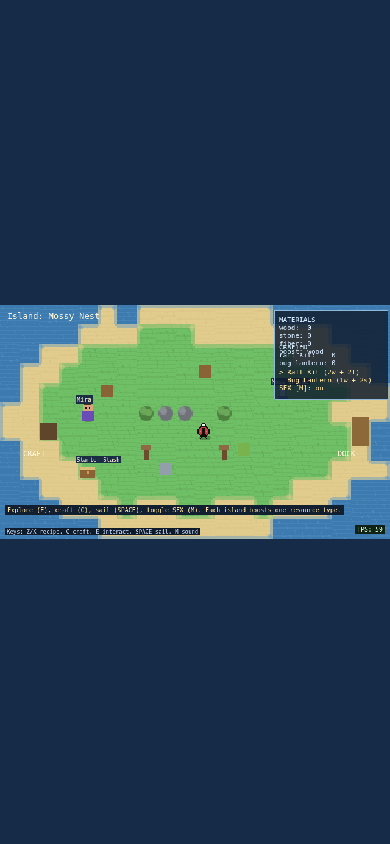
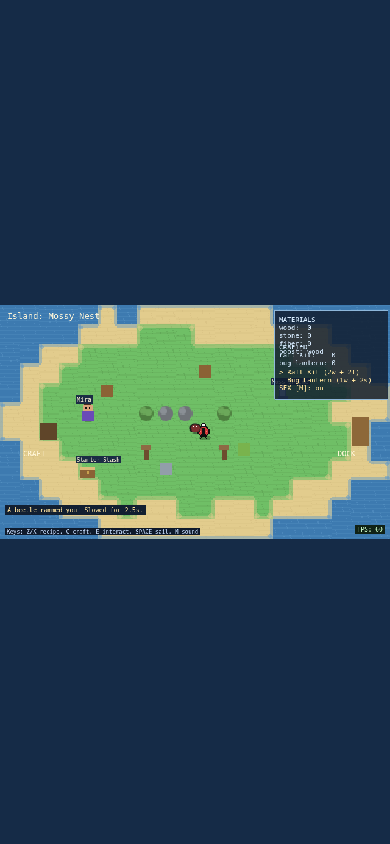
Add roaming beetle hazards and slowdown risk loop

diff --git a/src/main.ts b/src/main.ts
@@ -5,6 +5,7 @@ type ResourceType = 'wood' | 'stone' | 'fiber'
 type CraftKey = 'raftKit' | 'bugLantern'
 type ObstacleType = 'rock' | 'bush' | 'stump'
 type LandmarkType = 'chest' | 'shrine' | 'cave'
+type EncounterType = 'beetle'
 
 type ResourceNode = {
   type: ResourceType
@@ -27,6 +28,13 @@ type LandmarkDef = {
   title: string
 }
 
+type EncounterDef = {
+  type: EncounterType
+  tx: number
+  ty: number
+  radius: number
+}
+
 type Island = {
   name: string
   palette: {
@@ -40,6 +48,7 @@ type Island = {
   resources: Array<{ type: ResourceType; tx: number; ty: number }>
   obstacles: ObstacleDef[]
   landmarks: LandmarkDef[]
+  encounters: EncounterDef[]
 }
 
 type Recipe = {
@@ -109,6 +118,9 @@ class AdventureScene extends Phaser.Scene {
   private npcLabel?: Phaser.GameObjects.Text
   private obstacleSprites: Phaser.Physics.Arcade.Sprite[] = []
   private landmarks: Array<{ def: LandmarkDef; key: string; sprite: Phaser.Physics.Arcade.Sprite; label: Phaser.GameObjects.Text }> = []
+  private encounters: Array<{ def: EncounterDef; sprite: Phaser.Physics.Arcade.Sprite }> = []
+  private slowUntil = 0
+  private encounterCooldownUntil = 0
 
   private hudPanel!: Phaser.GameObjects.Rectangle
   private islandLabel!: Phaser.GameObjects.Text
@@ -196,6 +208,9 @@ class AdventureScene extends Phaser.Scene {
         { id: 'stash', type: 'chest', tx: 4, ty: 8, title: 'Starter Stash' },
         { id: 'altar', type: 'shrine', tx: 14, ty: 4, title: 'Moss Shrine' },
       ],
+      encounters: [
+        { type: 'beetle', tx: 9, ty: 6, radius: 22 },
+      ],
     },
     {
       name: 'Pebble Ring',
@@ -225,6 +240,9 @@ class AdventureScene extends Phaser.Scene {
         { id: 'echo-cave', type: 'cave', tx: 5, ty: 6, title: 'Echo Cave' },
         { id: 'ring-shrine', type: 'shrine', tx: 15, ty: 7, title: 'Ring Shrine' },
       ],
+      encounters: [
+        { type: 'beetle', tx: 10, ty: 6, radius: 26 },
+      ],
     },
     {
       name: 'Sunset Atoll',
@@ -253,6 +271,9 @@ class AdventureScene extends Phaser.Scene {
       landmarks: [
         { id: 'sun-cache', type: 'chest', tx: 15, ty: 4, title: 'Sun Cache' },
         { id: 'reef-cave', type: 'cave', tx: 5, ty: 8, title: 'Reef Cave' },
+      ],
+      encounters: [
+        { type: 'beetle', tx: 10, ty: 5, radius: 30 },
       ],
     },
   ]
@@ -305,6 +326,7 @@ class AdventureScene extends Phaser.Scene {
   update() {
     this.movePlayer()
     this.tickResourceRespawns()
+    this.tickEncounters()
 
     this.fpsTick++
     if (this.fpsTick % 12 === 0) {
@@ -472,6 +494,16 @@ class AdventureScene extends Phaser.Scene {
     g.fillStyle(0x5b6f85)
     g.fillRect(2, 11, 12, 3)
     g.generateTexture('landmark-cave', 16, 16)
+
+    g.clear()
+    g.fillStyle(0x1b1b1b)
+    g.fillEllipse(8, 9, 11, 9)
+    g.fillStyle(0x7b2f2f)
+    g.fillEllipse(8, 9, 8, 7)
+    g.fillStyle(0xffffff)
+    g.fillRect(6, 7, 1, 1)
+    g.fillRect(9, 7, 1, 1)
+    g.generateTexture('encounter-beetle', 16, 16)
 
     const drawLadybug = (key: string, lines: string[]) => {
       const colors: Record<string, number> = {
@@ -980,6 +1012,31 @@ class AdventureScene extends Phaser.Scene {
     })
   }
 
+  private tickEncounters() {
+    const now = this.time.now
+
+    this.encounters.forEach(({ sprite }) => {
+      const danger = Phaser.Math.Distance.Between(this.player.x, this.player.y, sprite.x, sprite.y)
+      if (danger >= 20 || now < this.encounterCooldownUntil) return
+
+      this.encounterCooldownUntil = now + 1800
+      this.slowUntil = now + 2600
+
+      const lootable = (Object.keys(this.inventory) as ResourceType[]).filter((k) => this.inventory[k] > 0)
+      if (lootable.length > 0) {
+        const stolen = Phaser.Utils.Array.GetRandom(lootable)
+        this.inventory[stolen] = Math.max(0, this.inventory[stolen] - 1)
+        this.setStatus(`A beetle rammed you! -1 ${stolen} and slowed for 2.5s.`)
+      } else {
+        this.setStatus('A beetle rammed you! Slowed for 2.5s.')
+      }
+
+      this.playSfx([185, 165], 0.05, 0.11, 'sawtooth')
+      this.updateHud()
+      this.saveNow()
+    })
+  }
+
   private loadIsland(index: number) {
     this.islandIndex = index
     this.clearMapTiles()
@@ -987,6 +1044,8 @@ class AdventureScene extends Phaser.Scene {
     const island = this.islands[index]
     this.createTerrainTextures(island.palette)
     this.buildIslandTiles(island)
+    this.slowUntil = 0
+    this.encounterCooldownUntil = 0
 
     this.solidColliders.forEach((c) => c.destroy())
     this.solidColliders = []
@@ -1002,6 +1061,9 @@ class AdventureScene extends Phaser.Scene {
       landmark.label.destroy()
     })
     this.landmarks = []
+
+    this.encounters.forEach((encounter) => encounter.sprite.destroy())
+    this.encounters = []
 
     this.npcSprite?.destroy()
     this.npcLabel?.destroy()
@@ -1066,6 +1128,33 @@ class AdventureScene extends Phaser.Scene {
 
       this.landmarks.push({ def: landmarkDef, key, sprite, label })
       this.solidColliders.push(this.physics.add.collider(this.player, sprite))
+    }
+
+    for (const encounterDef of island.encounters) {
+      const ex = encounterDef.tx * TILE + HALF_TILE
+      const ey = WORLD_OFFSET_Y + encounterDef.ty * TILE + HALF_TILE
+      const sprite = this.trackWorld(this.physics.add.sprite(ex, ey, 'encounter-beetle').setDepth(31))
+      sprite.setScale(1.8)
+      sprite.body?.setAllowGravity(false)
+      this.encounters.push({ def: encounterDef, sprite })
+
+      this.tweens.add({
+        targets: sprite,
+        x: ex + encounterDef.radius,
+        yoyo: true,
+        repeat: -1,
+        duration: 1300 + Phaser.Math.Between(0, 500),
+        ease: 'Sine.easeInOut',
+      })
+
+      this.tweens.add({
+        targets: sprite,
+        y: ey + Phaser.Math.Between(-10, 10),
+        yoyo: true,
+        repeat: -1,
+        duration: 900 + Phaser.Math.Between(0, 500),
+        ease: 'Sine.easeInOut',
+      })
     }
 
     const npc = this.npcByIsland[index]
@@ -1231,7 +1320,7 @@ class AdventureScene extends Phaser.Scene {
   }
 
   private movePlayer() {
-    const speed = 132
+    const speed = this.time.now < this.slowUntil ? 92 : 132
     let vx = 0
     let vy = 0
 
